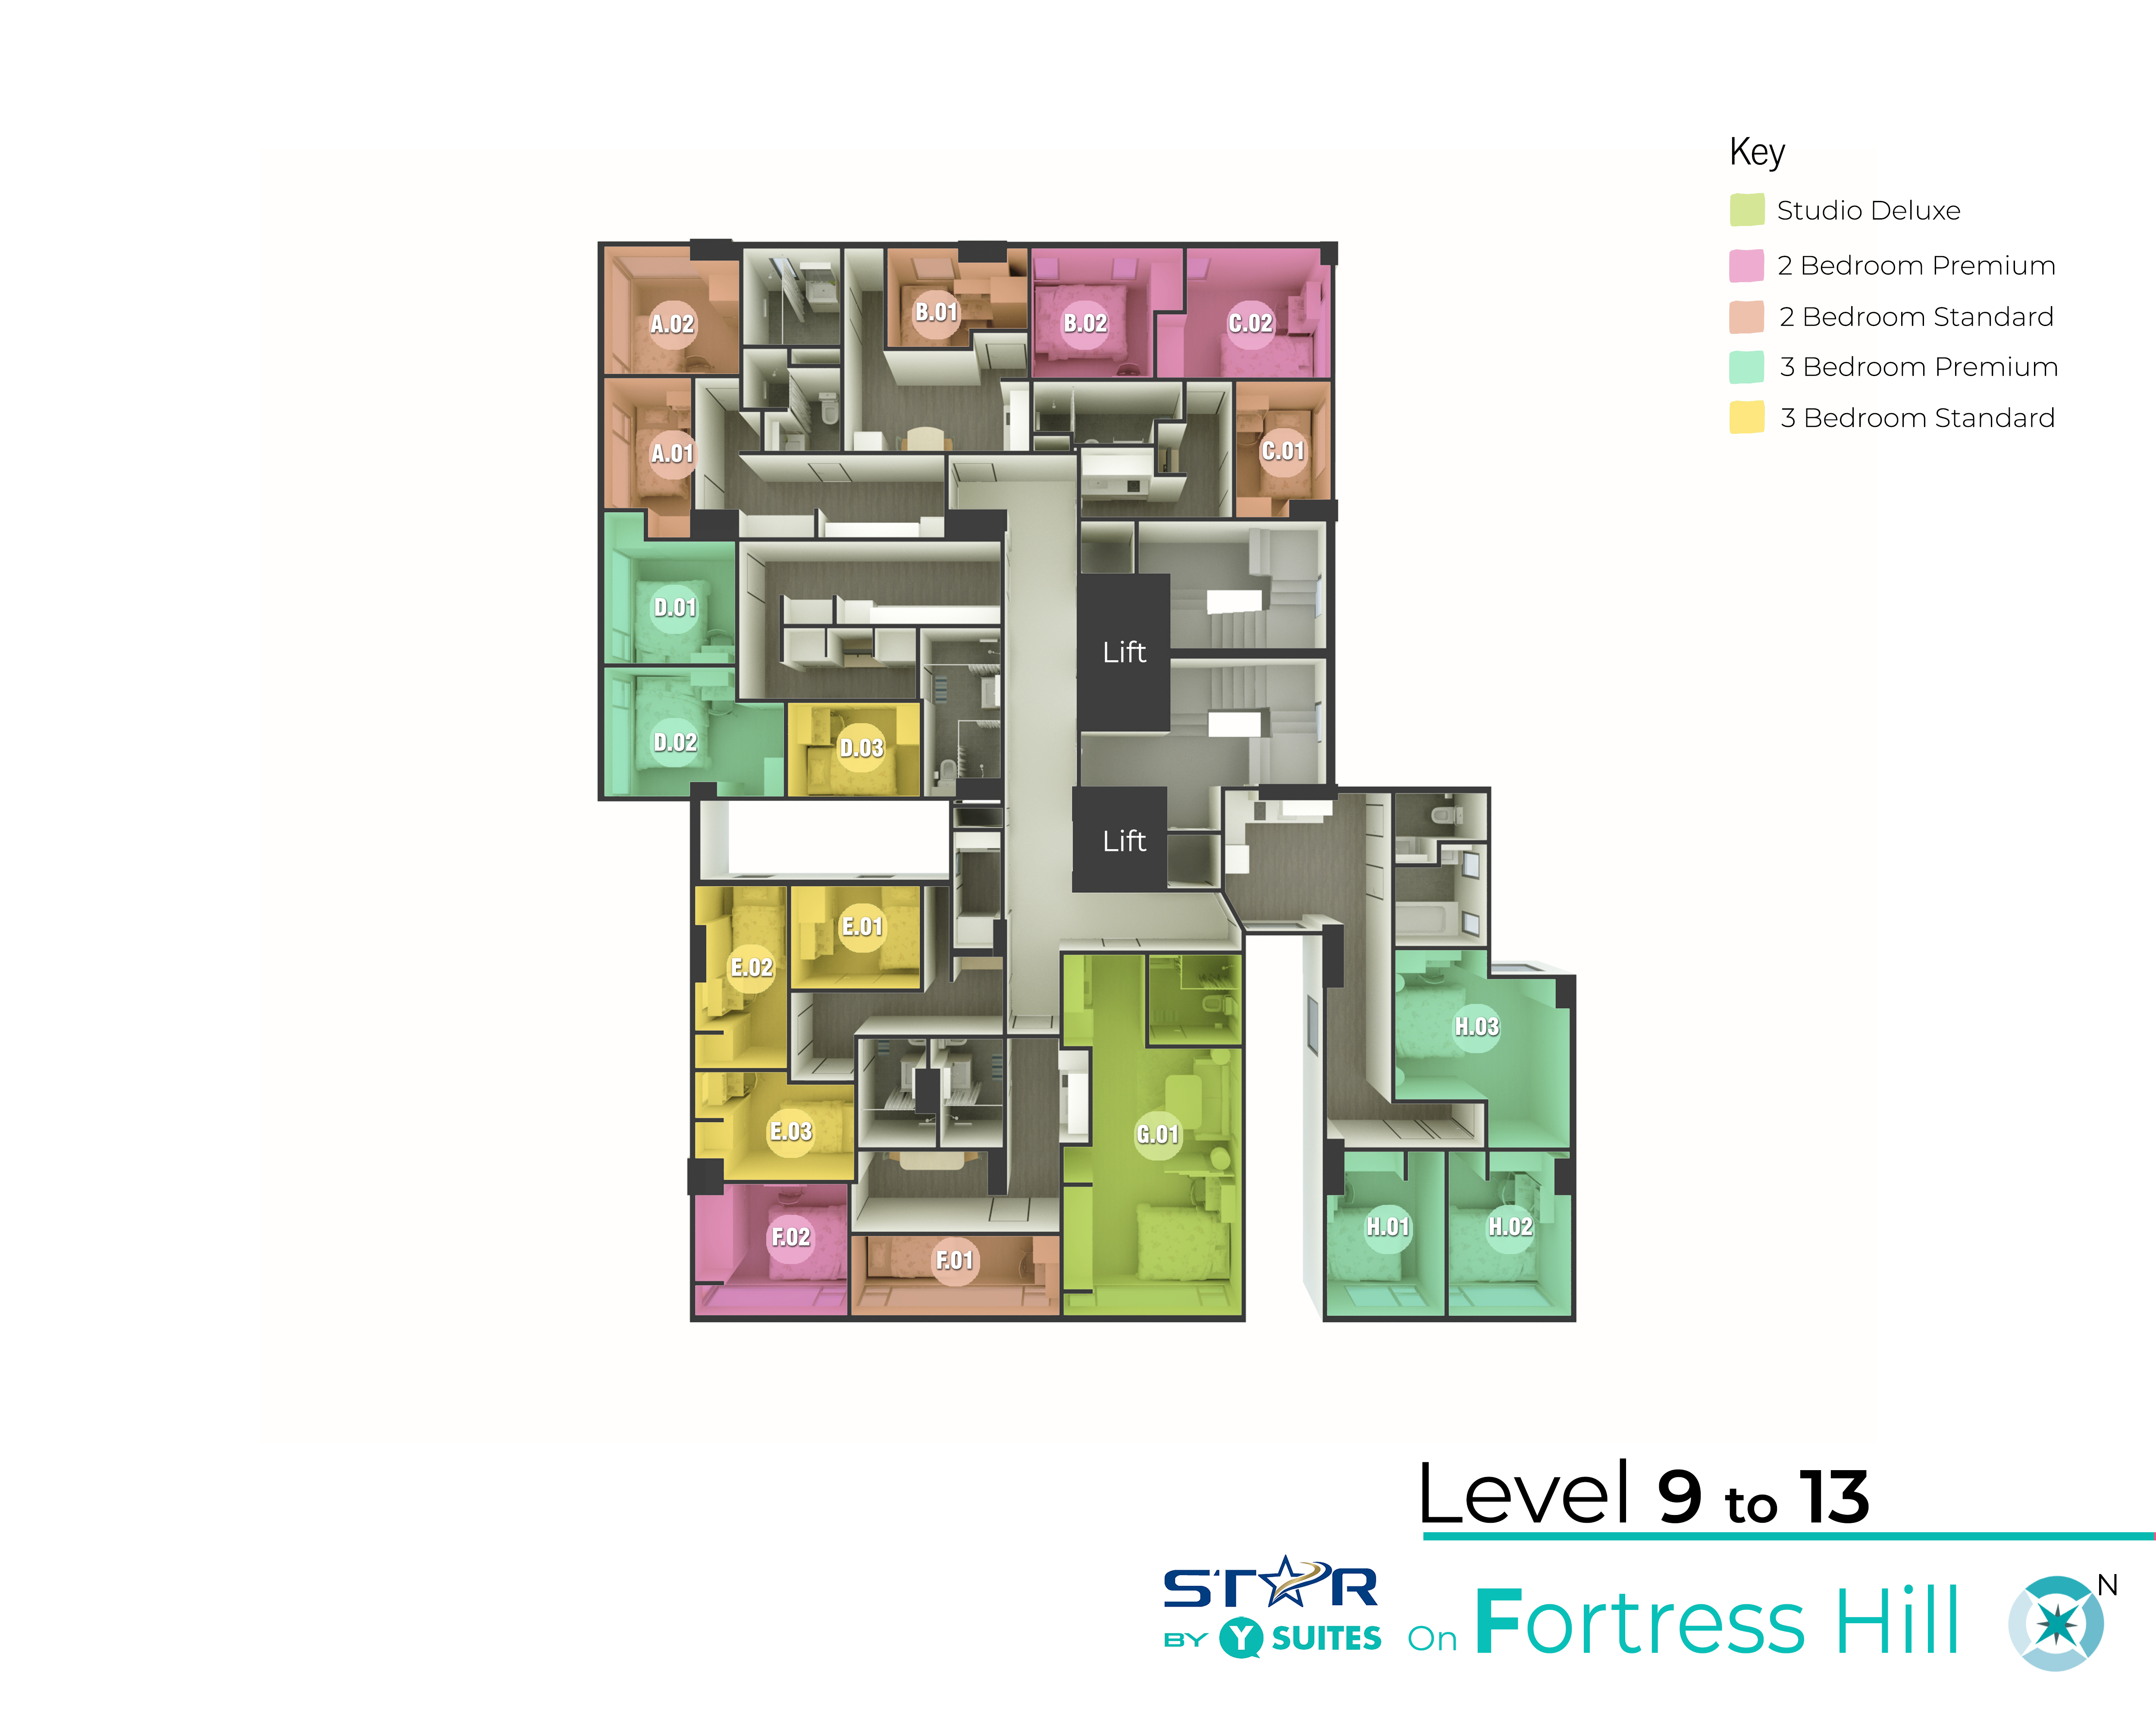
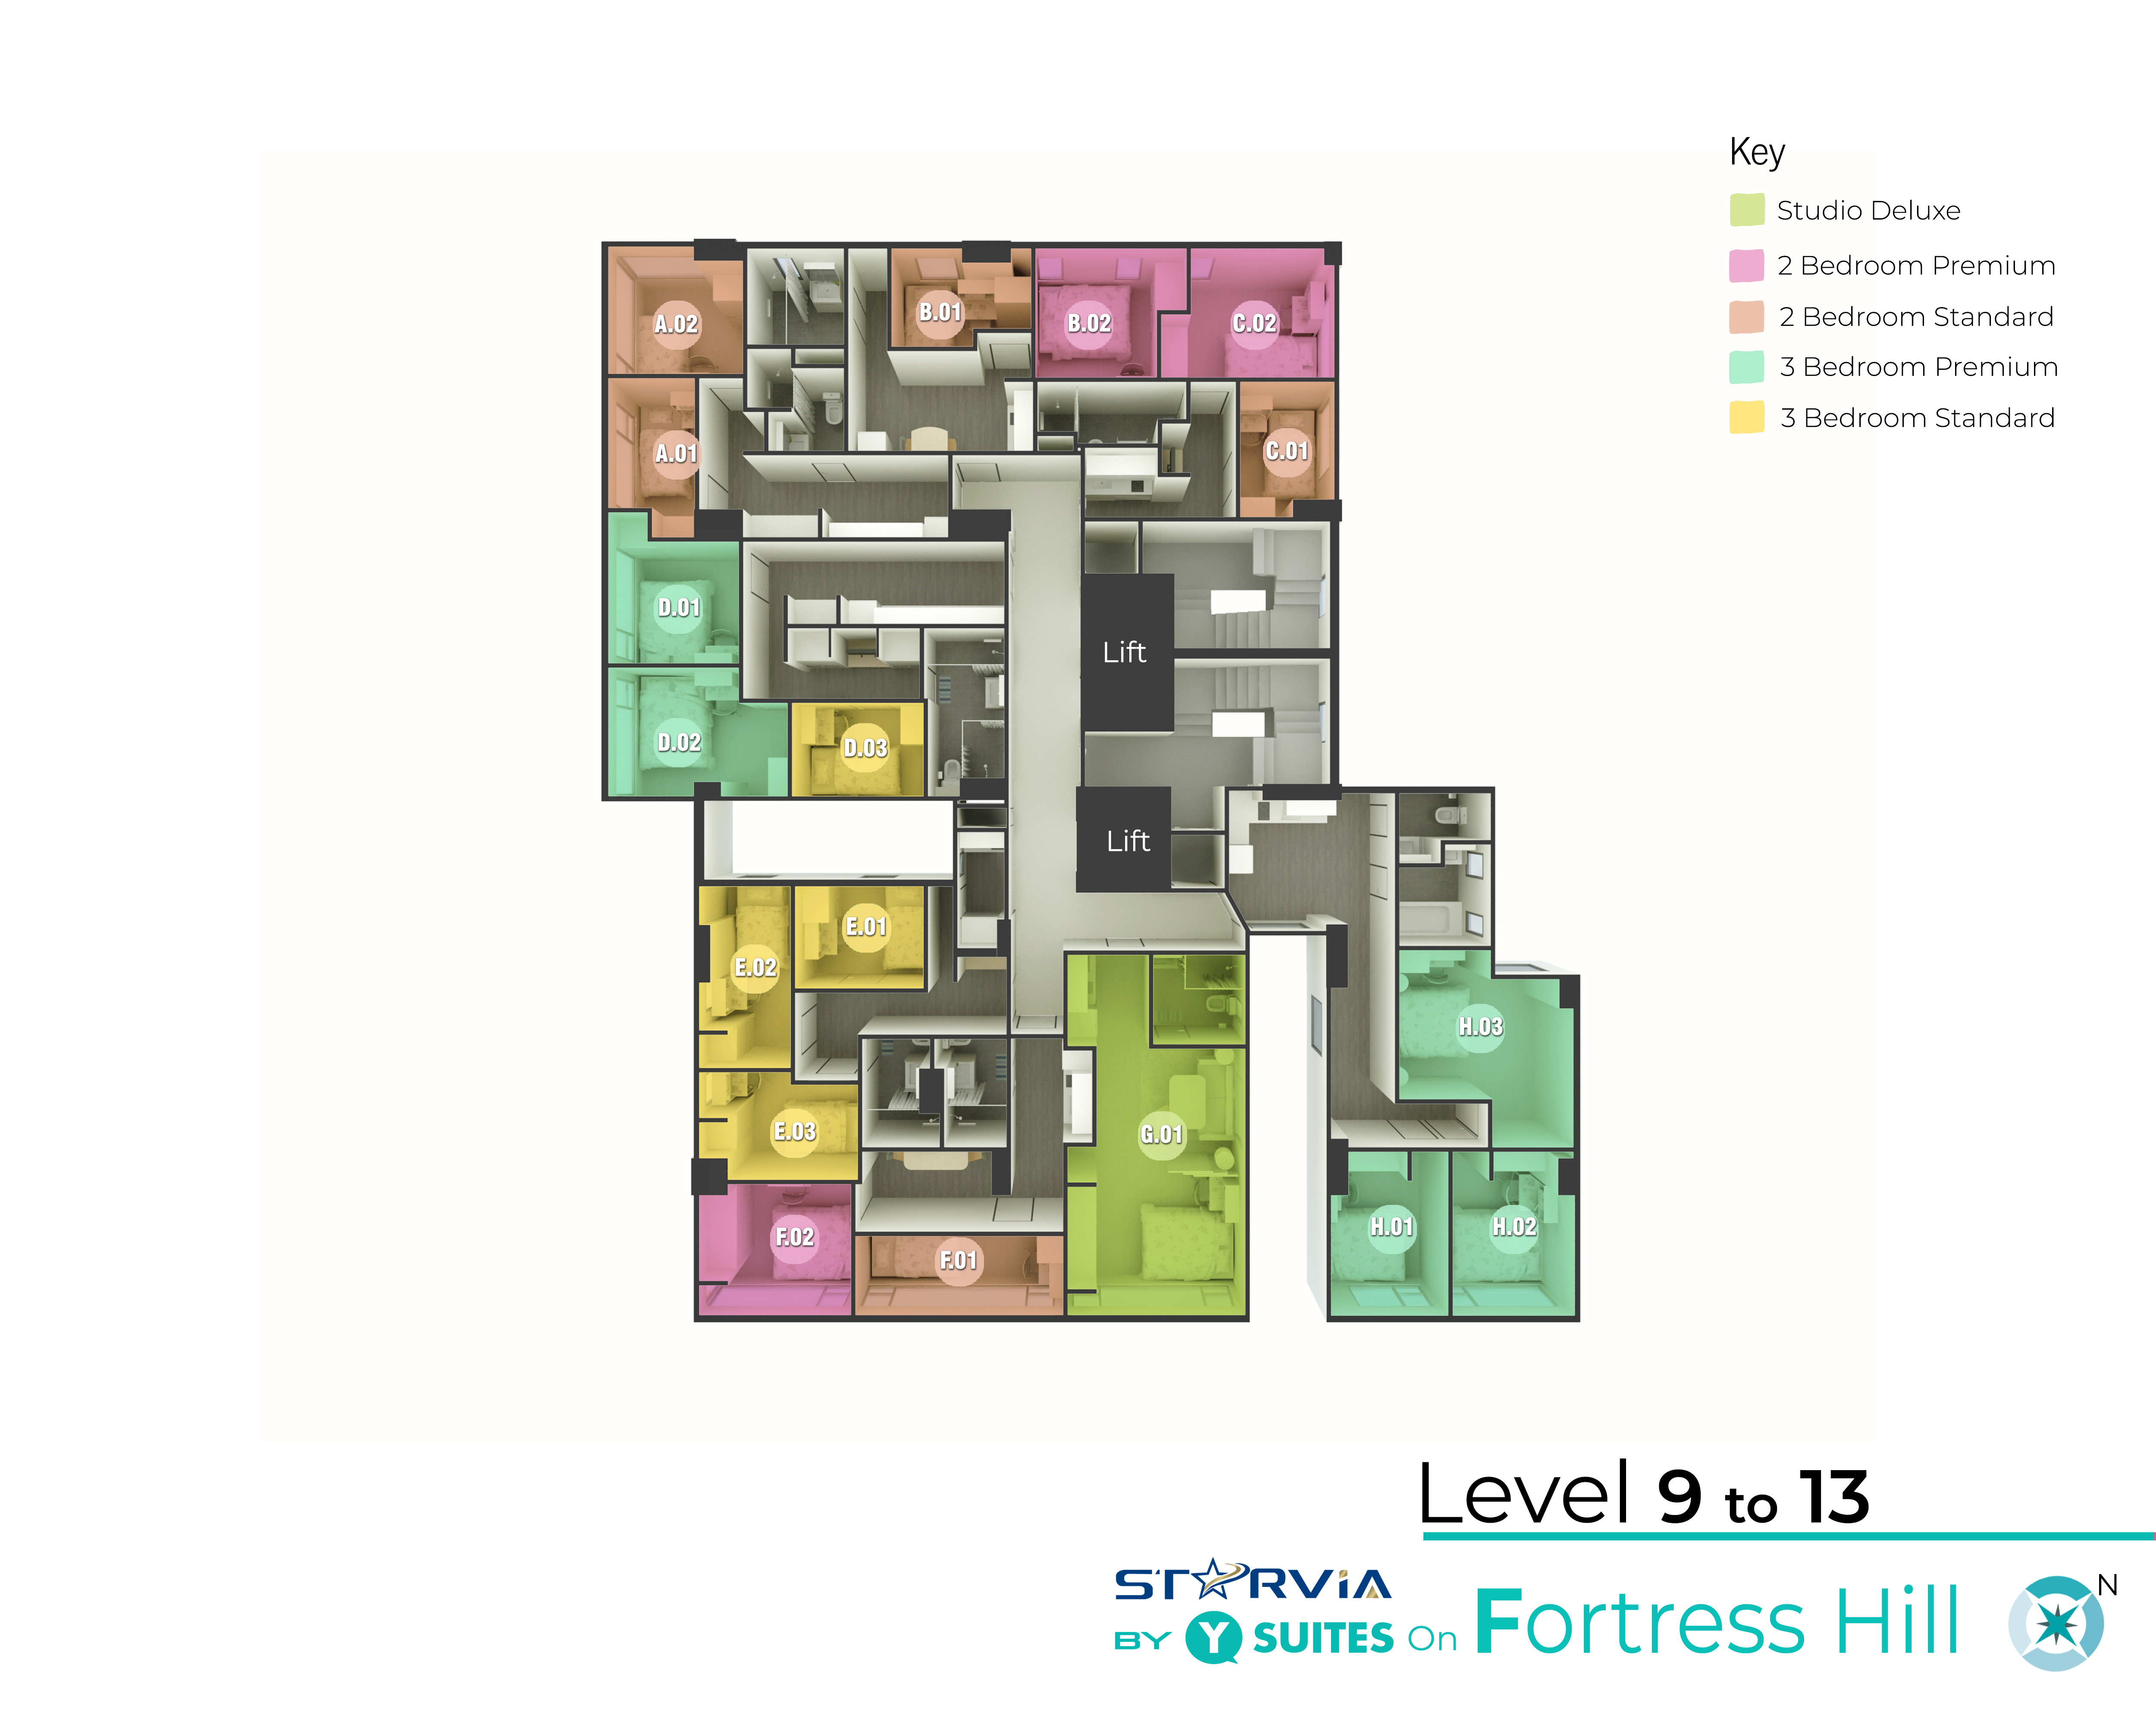
feat: 更新楼层图(L9-13/L15-16/L17-19)，KB楼层映射逻辑优化，L3-8暂缓

Changed region(s): [[0.2808, 0.125, 0.7488, 0.75], [0.4992, 0.9062, 0.6552, 0.9688], [0.4992, 0.4688, 0.5304, 0.5]]

diff --git a/index.html b/index.html
@@ -294,7 +294,7 @@ function formatAvailabilityContext() {
 
 var MG_KB = "【知识库更新时间】2026年5月11日11日\n\n【项目基本信息】全名：Y Suites on Margaret（简称MG）。**位置：悉尼 (Sydney), NSW**——绝对不是墨尔本，绝对不是其他澳洲城市。地址：108 Regent Street, Redfern NSW 2016, Australia（Redfern 是 Sydney 内城区）。规模：18层，409床位。开业日期：2025年2月17日。官网：ysuites.co\n\n【交通与学校】紧邻Redfern火车站。悉尼大学/Notre Dame/悉尼大学商学院：步行可达。UTS/Torrens大学：火车约10分钟。UNSW：巴士约26分钟。卧龙岗大学悉尼CBD：火车约25分钟。悉尼机场：约20分钟车程。\n\n【周边配套】Regent Place购物中心13分钟火车；QVB 13分钟；Darling Harbour 20分钟；悉尼歌剧院30分钟。\n\n【房型】Studio Premium：15.2m²，Queen床153x203cm，独立卫浴，套内厨房，高低楼层均有。**仅限单人入住，不可双人。**Studio Deluxe：27.0m²，Queen床153x203cm，独立卫浴（Deluxe配无障碍卫浴），套内厨房，高低楼层均有。Ensuite Premium：14.1m²，Queen床153x203cm，**独立卧室+独立卫浴**，仅与同公寓住户共享起居室/客厅，仅低楼层。注意：ENP **不需要** 性别配对人工确认（独立卧室独立卫浴）。2 Bedroom Apartment：25.6m²/间，King Single床107x203cm，2人共享卫浴+厨房，含书桌，高低楼层均有，S2起每两周免费清洁公共区域。楼层：Low Floor 1-10层，High Floor 11-18层。\n【双人入住政策】MG所有房型均为单人配置（每个床位/房间仅限1人），不支持双人入住，无例外。\n\n【水电费】包含在周租金内，无需额外支付。\n\n【S2 2026价格（周租，以群内最新发布为准）】Studio Premium HF：FY A$839 / HY A$819 / SEM A$909。Studio Premium LF：FY A$819 / HY A$819 / SEM A$889。Studio Deluxe HF：FY A$939 / HY A$939 / SEM A$1,009。Studio Deluxe LF：FY A$919 / HY A$919 / SEM A$989。2BR HF：FY A$759 / HY A$759 / SEM A$829。2BR LF：FY A$739 / HY A$739 / SEM A$809。Ensuite Premium：FY A$779 / HY A$779 / SEM A$849。\n\n【S2 2026租期】S2固定起租日：7月14日 / 7月21日 / 7月28日（三个日期任选其一，须为固定日）。若客户问非固定日（如7.15、7.17）→ fix到前一个固定起租日（7.14），租金从固定日起算。若客户要求7.14之前入住（如7.13）→ 属于特殊申请，不可自动受理，需人工处理。Full Year退租：2027年7月7或14日。Half Year退租：2027年1月26日或2月2日。Semester退租：2026年12月22日。Short-term：即日可入住，退租不晚于7月1日，最短4周，适用HY划线前价格，目前有库存：Studio Premium、2 Bedroom Apartment。其他特殊租期需求请联系人工对接。\n\n【S2 2026促销（May Stay & Safe，促销期4月30日至5月31日，以群内最新发布为准）】所有房型 Full Year：$1,000 Rent Rebate，代码S226MGEARLYTI。所有房型 Half Year：$500 Rent Rebate（适用Full Year价格），代码S226MGEARLYTFY。所有房型 Semester：$150 Rent Rebate。Studio Premium专属：申请Low Floor可免费升级High Floor房间，先到先得。团订：3人或以上每人额外$200租金抵扣。入住礼包：机场交通补贴（凭悉尼机场→Margaret的车票/Taxi/Train receipt，发至[email redacted]，实报实销，封顶A$50；票面金额低于50按实际金额报销，如票据30即给30 Rebate）+ 全新床品套装（1×Duvet、1×Duvet Cover、1×Flat Sheet、1×Pillow、1×Pillowcase、1×Bath Mat、1×Face Towel、1×Bath Towel，全部全新包装，学生自行铺床即可）。注意：促销没有任何直降周租，全部为Rebate形式。【Rebate抵扣方式】Full Year年租：Rebate分两次自动抵扣至租金账户，分别在租期中段和租期末；Half Year / Semester：Rebate统一在最后一期账单中体现。全部自动处理，无需客户额外操作，只需在对应账单日留意账单金额。\n\n【申请与付款】申请链接：https://www.ysuites.co/agent-login → 输入 Agent Code（与 Starvia HK 共用同一个 code）→ 选择项目名（MG / Starvia）→ 进入申请表格 → 填客户信息+预计毕业时间 → 递交。**递交后中介会收到系统自动发的 Offer 邮件**。如果没有及时收到 → 人工确认是否递交成功。操作遇到困难/报错 → 转人工。\n【订金付款流程（预订时，收Offer后24小时内）】收到Offer邮件后，邮件内含支付链接（Reservation Expiry: 24 hours，须24小时内完成）。步骤：① 点击邮件支付链接进入支付页面 → ② 阅读并勾选确认信息 → ③ 点击【China Payment】按钮（Stripe第三方平台，手续费约3.1%）→ ④ 选择结算货币（推荐选澳币AUD，手续费最低；选人民币会有额外手续费）→ ⑤ 选支付方式：银行卡/微信/支付宝（推荐中国学生选微信/支付宝，扫码即可）。如需银行转账：点Bank Transfer → 银行账号信息自动发送至申请邮箱 → 转账时备注邮件内的Reference Number → 转账截图发至 [email redacted]。银行收款信息：Y Suites Australia Pty Ltd | NAB | BSB 084 150 | Account [phone redacted] | SWIFT: NATAAU3303M。\n【押金（Security Deposit）】押金为4周租金，退房后无违约情况下退还。入住前约一周会收到RBO邮件，邮件内含押金支付链接。如因无澳洲手机号等原因支付遇到困难，最晚可在入住当天在前台工作人员指导下完成付款。\n取消政策：【退改政策——重要，请严格按此口径回答】\n① No Visa No Pay & No Offer No Pay（仅限起租前）：签证未获批或Offer未下发，须在起租日至少7天前提出书面申请，符合条件已付款项全额退还。此政策仅适用于合约尚未开始前；合约一旦开始（即起租日已过），此政策不再适用，如仍有特殊情况可引导联系Y Suites China Team商讨是否 defer（延期入住），但非自动退款。\n② 合约中途退租：MG为固定租期合同，不支持自动中途解约。如需中途退出，有两条路径：A）优先转租——寻找合适的接租人办理转租手续；B）按新州（NSW）相关法律，根据实际已履约时长扣除相应费用后协商解约，但Y Suites会保留该住户的毁约记录。具体方案转人工处理。\n③ 订金超时：订金（Reservation Fee）须在收到Offer后24小时内完成支付；如超时未付，订单可能失效，需重新提交申请。\n④ 销售话术提示：No Visa No Pay 政策是帮客户提早锁房的利器——建议中介主动告知客户\"无需等签证或录取结果，可先锁房，万一签证被拒可全退\"，降低客户顾虑、提高成交率。\n\n【入住资质】原则上需学生身份。非学生请提前联系China Team确认资质。**未成年人（18岁以下）不接受入住，无例外。**入学证明最迟合约开始前提供。申请时需填预计毕业时间。\n\n【性别安排】默认同性别分配，可指定室友，特殊需求备注。\n\n【交通补贴——入住福利】MG为所有新入住住户提供【机场交通补贴】：凭悉尼机场→Margaret的车票（如Taxi receipt / Train ticket），发送至 [email redacted]，实报实销兑换租金Rebate，封顶A$50。**注意：是实报实销，不是直接给50**——票面金额低于50按实际金额报销，例如票据是A$30就给A$30 Rebate；票据超过A$50按A$50封顶报销。中介可作为入住福利主动介绍给客户。\n\n【设施】（以下为全部公共设施，所有设施仅限MG住户专用，不与其他楼宇或公众共享）：健身房（24小时开放）、洗衣房（收费使用，无免费洗衣次数）、学习室、小组讨论室、影音房、自动快递柜（包裹到达时发送SMS短信通知）、自行车存放室。【重要：洗衣房为收费使用，没有任何免费洗衣次数政策。】安保：夜间保安巡逻+24小时CCTV+楼宇门禁系统（具体技术形式知识库未明确，回答统一说【有门禁】即可，不要编造人脸/APP/指纹等细节）。前台：双语（中英），9am-5pm；非工作时间RA电话值班，支持24小时入住。S2新增：住户App（可预约设施/提交报修）、自助Check-in机、清洁机器人、递送机器人。每周住户活动。\n\n【清洁费用】Departure Cleaning（退房清洁）：A$160/次，必须缴纳（金额视房间状况可能调整）。In-house Cleaning（在住期间清洁）：A$120/小时，可选服务，住户自行决定是否需要，如需预约请联系前台。\n\n【房态】MG的实时房态见下方【实时房态】区域，每天下午4点从RMS自动更新（按\"30天连续无占位\"规则过滤后的数据，更稳）。回答房态问题前请先询问客户租期。如果下方没有房态数据（加载失败），请回答客户去群内查看置顶。\n\n【宠物政策】MG（Y Suites on Margaret，悉尼）完全禁止饲养任何宠物，无例外。被问到宠物问题统一回答：「非常抱歉，MG悉尼项目不允许任何宠物入住。」\n\n【访客与留宿政策】MG 禁止未经许可的访客留宿（Non-registered overnight guests are not permitted）。具体细节（白天访客登记、时间限制等）以住宿协议及前台说明为准，有需要的住户可入住后咨询前台。\n\n【前台联系方式】Main Property Line（前台，工作时间 9:00am–5:00pm）：[phone redacted]。Residential Advisor Line（RA值班，非工作时间 After-Hours）：[phone redacted]。RA热线适用于：非工作时间办理入住、忘带/丢失房卡、噪音投诉等临时紧急需求。【房卡丢失处理流程】非工作时间房卡丢失/忘带：拨打RA值班热线 [phone redacted]，RA上门协助开门。补办新卡：由RA或前台在工作时间（9am-5pm）协助办理。注意：MG目前不具备远程重置门禁权限功能。前台邮箱（文件/收据发送）：[email redacted] / [email redacted]。\n\n【佣金】MG悉尼项目佣金为固定行业统一比例，具体数值在群内联系Y Suites China Team同事确认即可。注意：MG与炮台山（FH）两个项目佣金比例独立制定，不可跨项目类推。【Agent Code】每家中介的Agent Code不同，请联系Y Suites China Team获取。";
 
-var STARVIA_KB = "【知识库更新时间】2026年5月11日\n\n【项目基本信息】全名：Starvia by Y Suites on Fortress Hill。地址：151 Kings Road, Fortress Hill, Hong Kong SAR。规模：19层（3-19楼客房），246床位。性质：Y Suites与Starvia JV合资。正式投入使用：2026年8月。\n\n【品牌】Y Suites隶属新加坡Wee Hur集团，澳洲管理6000+床位，长期100%满房率。Starvia是香港本地合作方。\n\n【交通】步行2分钟炮台山地铁站；步行5分钟电气道市政大厅；乘车20分钟/地铁30分钟西九龙高铁站；乘车30分钟香港国际机场。\n\n【学校距离】港大：地铁18分钟直达。演艺学院：地铁12分钟。理工大学：过海巴士20分钟。树仁大学：步行20分钟/公交10分钟。高科院柴湾：地铁20分钟。城大：地铁30-35分钟。浸大/都会大学：地铁35-40分钟。\n\n【周边生活配套】楼下底商：7-11便利店、美心西饼、争鲜寿司。步行约1分钟：麦当劳（最近的麦当劳！）、惠康Superstore大型超市。步行约2分钟：万宁、屈臣氏。步行5分钟：电气道市政大厅（街市熟食）。步行8-10分钟：北角汇。地铁8分钟：太古城City Plaza。\n\n【水电费——单独收取，不含在月租内】基础 HK$500/月/床（全年 HK$6,000），随第二期租金预付。包含额度：电每月250度、水每月10立方米，超出按实际费率住户均摊。\n【Early Bird 促销——重要卖点，必须主动介绍】促销期：2026年4月13日起，前50个递交订单，额满即止。促销代码：26SYSFEARLY1。优惠内容（所有房型适用）：①月租减免：1个月租金减免（账单内每月金额不变，但总应付期数从12个月减为11个月）；②水电减免：6个月水电账单减免，实付HK$3,000/年（省一半）；③首次抵港交通补贴：HK$300 滴滴/Uber 企业账户支付（覆盖机场或高铁站到公寓）；④HK$800 八达通预充值卡（实际内含 HK$750 可用金额）；⑤床品套装；⑥Welcome Pack。\n退款口径（必须严格执行）：水电费及月租预缴后一律不退，租约固定12个月，绝对不可以跟客户说可以退、可以按比例退、可以多退少补。\n\n【接站补贴】HK$300 滴滴/Uber 企业账户支付（Early Bird 入住礼包之一），覆盖机场或高铁站到公寓的接站费用，基本可以全覆盖。客户问交通费用时必须主动提及。除此外不提供其他交通报销或接机服务，不帮客户拉拼车群。具体路线询问引导客户自行查询或群内联系同事。\n\n【看房安排】Showroom现已全面开放，所有房型均可参观。看房方式：① 实地参观；② 远程视频连线看房——两种方式均可，按客户需求安排。均需提前至少24小时在群内报备，提供客户姓名、看房日期时段及特殊需求，同事跟进确认，不要自行向客户承诺时间。重要提示：Showroom为代表性展示房源，实际入住房间可能存在细微差别（如朝向、楼层视野等）；同价格房间按先到先得方式分配，不保证指定具体房间号，如有偏好可在申请备注供参考。\n\n【工作人员对接】Y Suites工作人员不与客户直接拉群对接。客户有问题，中介在群内联系China Team，由工作人员支援，不可将工作人员联系方式直接给客户。\n\n【房型与价格（per bed，2026年）】所有报价已包含 Early Bird 折扣（住12个月付11个月）。\n- Studio Deluxe（28床）：22.7-26.3m²，Queen床150x200cm，独立卫浴，套内厨房，mini洗烘机，推拉门可分一室一厅，双人入住价格不变，楼层相对较高（高于Studio Grand的3-8层），视野较开阔。基础 HK$23,000/月 → 折后 HK$21,083/月。【Selling Fast】\n- Studio Grand（新房型）：约20.5m²，独立套间，Queen床，独立卫浴，套内厨房，mini洗烘机，位于3-8层（偏低楼层），朝向随机。基础 HK$19,500/月 → 折后 HK$17,875/月。\n- 2-Bedroom Premium：7.5-11.5m²，Queen床，2人共享卫浴/厨房，mini洗烘机。基础 HK$15,000/月 → 折后 HK$13,750/月。【整套注意】部分楼层同一公寓内两张床并非同一类型（如一张Premium + 一张Standard混搭），客户若要整套同类型，须人工确认该公寓两床均为Premium。\n- 2-Bedroom Standard：4.8-7.1m²，Single床100x200cm，2人共享卫浴/厨房，mini洗烘机。基础 HK$13,500/月 → 折后 HK$12,375/月。\n- 3-Bedroom Premium：7.3-11.2m²，Queen床，3人共享卫浴/厨房（卫浴比例 3:1 或 3:2），mini洗烘机。基础 HK$14,000/月 → 折后 HK$12,833/月。\n- 3-Bedroom Standard：5.3-6.9m²，Single床，3人共享卫浴/厨房，mini洗烘机。基础 HK$12,500/月 → 折后 HK$11,458/月。【Selling Fast】\n- 4-Bedroom Premium：7.5-7.7m²，Queen床，4人共享卫浴（4:2）/厨房，mini洗烘机。基础 HK$14,000/月 → 折后 HK$12,833/月。\n- 4-Bedroom Standard：7.3-7.5m²，Single床，4人共享卫浴（4:2）/厨房，mini洗烘机。基础 HK$12,500/月 → 折后 HK$11,458/月。\n水电网账单费另计：HK$500/月/床（Early Bird 减半，详见促销段）。\n\n【面积说明——重要卖点】炮台山项目（Fortress Hill）所有房型标注的面积均为【实际使用面积/净面积】，不是市场常见的【建筑面积】。同等面积标注下，我们的实际可用空间比同行项目大——面积不玩虚的，标多大就有多大可用。客户问面积时必须主动告知这点。\n\n【租期】租约固定一年。起租日期：2026年8月10日至20日之间，区间内任意日期灵活选择。退租日期为起租后365天（例如8月10日起租，退租日为次年8月9日）。特殊租期需求联系人工。\n\n【申请流程】申请链接：https://www.ysuites.co/agent-login → 输入 Agent Code → 选择 Starvia by Y Suites Fortress Hill → 进入申请表格。**递交后中介会收到系统自动发的 Offer 邮件**，如果没有及时收到 → 人工确认是否递交成功。操作遇到困难 → 转人工。\nStep1：官网 agent-login 入口选 Starvia by Y Suites Fortress Hill 点 Book Now。Step2：填客户信息+中介信息（Agent Code + 顾问姓名 + 顾问邮箱，**必填**！否则无法记录佣金）。Step3：备注特殊需求（楼层/性别/同住人/团订）。Step4：群内报备住户姓名。Step5：等Offer，收到即锁定价格，暂无需付款。Step6：递交即锁定房源（无需马上付款）；Y Suites 统一发出付款通知后，48小时内付清：2个月押金 + 1个月定金（定金不退，计入首月租金）。Step7：付款后收确认信及合约，按时签署。Step8：剩余11个月租金7月15日前付清。\n\n【付款与取消】无No Visa No Pay政策。中途毁约：已付款项不退。可转租：须经管理方审批，租客自行寻找继任人，并承担手续费HKD 1,500。\n\n【申请系统】官网申请系统现已上线，与MG悉尼使用同一套自动化流程。递交后系统自动发出Offer邮件。Agent Code与MG悉尼共用同一个code。\n\n【入住资质】原则上需学生身份。非学生或未成年请提前联系China Team。入学证明最迟合约开始前提供。\n\n【性别安排——重要】2-Bedroom / 3-Bedroom / 4-Bedroom 默认**系统自动同性别配对**（不需要每次让人工确认）。客户可指定室友。**只有整套学生团订**的情况下，才会根据学生意愿允许混性别安置（这种情况问清楚学生意愿即可，不需要再让人工确认）。\n\n【设施】健身房、学习室、多功能室、公共洗衣房（住户免费使用）、24小时前台、24小时CCTV、楼宇门禁系统（具体是房卡/人脸/APP 等技术形式知识库未明确，统一回答【有门禁】即可，不要编造具体技术细节）。\n\n【宠物政策】炮台山项目（Fortress Hill）小型宠物可在入住后申请，但须同时获得物业管理方及同住室友的许可方可饲养，未经许可不得自行带入。能否获批视物业及室友意见而定，不保证批准。\n\n【房态】最新房态请查看群内置顶房态表或直接问Y Suites同事。\n\n【楼层平面图】被问到户型图、楼层平面图、房间布局时，直接内嵌对应楼层图展示给中介看。先问清楚客户感兴趣的楼层，然后用 ![户型图](URL) 格式回复。各楼层图：\nLevel 3-8（3至8楼）：![Level 3-8户型图](https://ysuites-china.github.io/ysuites-assistant/assets/floorplans/FH_Level3-8.jpg)\nLevel 9-13（9至13楼）：![Level 9-13户型图](https://ysuites-china.github.io/ysuites-assistant/assets/floorplans/FH_Level9-13.jpg)\nLevel 15-16（15至16楼）：![Level 15-16户型图](https://ysuites-china.github.io/ysuites-assistant/assets/floorplans/FH_Level15-16.jpg)\nLevel 17-19（17至19楼）：![Level 17-19户型图](https://ysuites-china.github.io/ysuites-assistant/assets/floorplans/FH_Level17-19.jpg)\n\n【总费用预算表（FH项目，直接查表，格式：押金|定金|尾款|Utility|厘印|清洁→合计/净支出，押金可退，清洁500起可调整）】\n\nStudio Deluxe(月租23,000)：EB：46,000|23,000|230,000|3,000|345.00|500→302,845.00/256,845.00 | 非EB：46,000|23,000|253,000|6,000|345.00|500→328,845.00/282,845.00\n\nStudio Grand(月租19,500)：EB：39,000|19,500|195,000|3,000|292.50|500→257,292.50/218,292.50 | 非EB：39,000|19,500|214,500|6,000|292.50|500→279,792.50/240,792.50\n\n2BR Premium(月租15,000)：EB：30,000|15,000|150,000|3,000|225.00|500→198,725.00/168,725.00 | 非EB：30,000|15,000|165,000|6,000|225.00|500→216,725.00/186,725.00\n\n2BR Standard(月租13,500)：EB：27,000|13,500|135,000|3,000|202.50|500→179,202.50/152,202.50 | 非EB：27,000|13,500|148,500|6,000|202.50|500→195,702.50/168,702.50\n\n3BR Premium(月租14,000)：EB：28,000|14,000|140,000|3,000|210.00|500→185,710.00/157,710.00 | 非EB：28,000|14,000|154,000|6,000|210.00|500→202,710.00/174,710.00\n\n3BR Standard(月租12,500)：EB：25,000|12,500|125,000|3,000|187.50|500→166,187.50/141,187.50 | 非EB：25,000|12,500|137,500|6,000|187.50|500→181,687.50/156,687.50\n\n4BR Premium(月租14,000)：EB：28,000|14,000|140,000|3,000|210.00|500→185,710.00/157,710.00 | 非EB：28,000|14,000|154,000|6,000|210.00|500→202,710.00/174,710.00\n\n4BR Standard(月租12,500)：EB：25,000|12,500|125,000|3,000|187.50|500→166,187.50/141,187.50 | 非EB：25,000|12,500|137,500|6,000|187.50|500→181,687.50/156,687.50\n\n【佣金】炮台山（Fortress Hill）项目佣金为固定行业统一比例，不按合作伙伴等级或单量设梯度。具体比例在群内联系Y Suites China Team同事确认即可，无需提供额外信息。注意：FH与MG悉尼两个项目佣金比例独立制定，不可跨项目类推。【Agent Code】每家中介的Agent Code不同，请联系Y Suites China Team获取。";
+var STARVIA_KB = "【知识库更新时间】2026年5月11日\n\n【项目基本信息】全名：Starvia by Y Suites on Fortress Hill。地址：151 Kings Road, Fortress Hill, Hong Kong SAR。规模：19层（3-19楼客房），246床位。性质：Y Suites与Starvia JV合资。正式投入使用：2026年8月。\n\n【品牌】Y Suites隶属新加坡Wee Hur集团，澳洲管理6000+床位，长期100%满房率。Starvia是香港本地合作方。\n\n【交通】步行2分钟炮台山地铁站；步行5分钟电气道市政大厅；乘车20分钟/地铁30分钟西九龙高铁站；乘车30分钟香港国际机场。\n\n【学校距离】港大：地铁18分钟直达。演艺学院：地铁12分钟。理工大学：过海巴士20分钟。树仁大学：步行20分钟/公交10分钟。高科院柴湾：地铁20分钟。城大：地铁30-35分钟。浸大/都会大学：地铁35-40分钟。\n\n【周边生活配套】楼下底商：7-11便利店、美心西饼、争鲜寿司。步行约1分钟：麦当劳（最近的麦当劳！）、惠康Superstore大型超市。步行约2分钟：万宁、屈臣氏。步行5分钟：电气道市政大厅（街市熟食）。步行8-10分钟：北角汇。地铁8分钟：太古城City Plaza。\n\n【水电费——单独收取，不含在月租内】基础 HK$500/月/床（全年 HK$6,000），随第二期租金预付。包含额度：电每月250度、水每月10立方米，超出按实际费率住户均摊。\n【Early Bird 促销——重要卖点，必须主动介绍】促销期：2026年4月13日起，前50个递交订单，额满即止。促销代码：26SYSFEARLY1。优惠内容（所有房型适用）：①月租减免：1个月租金减免（账单内每月金额不变，但总应付期数从12个月减为11个月）；②水电减免：6个月水电账单减免，实付HK$3,000/年（省一半）；③首次抵港交通补贴：HK$300 滴滴/Uber 企业账户支付（覆盖机场或高铁站到公寓）；④HK$800 八达通预充值卡（实际内含 HK$750 可用金额）；⑤床品套装；⑥Welcome Pack。\n退款口径（必须严格执行）：水电费及月租预缴后一律不退，租约固定12个月，绝对不可以跟客户说可以退、可以按比例退、可以多退少补。\n\n【接站补贴】HK$300 滴滴/Uber 企业账户支付（Early Bird 入住礼包之一），覆盖机场或高铁站到公寓的接站费用，基本可以全覆盖。客户问交通费用时必须主动提及。除此外不提供其他交通报销或接机服务，不帮客户拉拼车群。具体路线询问引导客户自行查询或群内联系同事。\n\n【看房安排】Showroom现已全面开放，所有房型均可参观。看房方式：① 实地参观；② 远程视频连线看房——两种方式均可，按客户需求安排。均需提前至少24小时在群内报备，提供客户姓名、看房日期时段及特殊需求，同事跟进确认，不要自行向客户承诺时间。重要提示：Showroom为代表性展示房源，实际入住房间可能存在细微差别（如朝向、楼层视野等）；同价格房间按先到先得方式分配，不保证指定具体房间号，如有偏好可在申请备注供参考。\n\n【工作人员对接】Y Suites工作人员不与客户直接拉群对接。客户有问题，中介在群内联系China Team，由工作人员支援，不可将工作人员联系方式直接给客户。\n\n【房型与价格（per bed，2026年）】所有报价已包含 Early Bird 折扣（住12个月付11个月）。\n- Studio Deluxe（28床）：22.7-26.3m²，Queen床150x200cm，独立卫浴，套内厨房，mini洗烘机，推拉门可分一室一厅，双人入住价格不变，楼层相对较高（高于Studio Grand的3-8层），视野较开阔。基础 HK$23,000/月 → 折后 HK$21,083/月。【Selling Fast】\n- Studio Grand（新房型）：约20.5m²，独立套间，Queen床，独立卫浴，套内厨房，mini洗烘机，位于3-8层（偏低楼层），朝向随机。基础 HK$19,500/月 → 折后 HK$17,875/月。\n- 2-Bedroom Premium：7.5-11.5m²，Queen床，2人共享卫浴/厨房，mini洗烘机。基础 HK$15,000/月 → 折后 HK$13,750/月。【整套注意】部分楼层同一公寓内两张床并非同一类型（如一张Premium + 一张Standard混搭），客户若要整套同类型，须人工确认该公寓两床均为Premium。\n- 2-Bedroom Standard：4.8-7.1m²，Single床100x200cm，2人共享卫浴/厨房，mini洗烘机。基础 HK$13,500/月 → 折后 HK$12,375/月。\n- 3-Bedroom Premium：7.3-11.2m²，Queen床，3人共享卫浴/厨房（卫浴比例 3:1 或 3:2），mini洗烘机。基础 HK$14,000/月 → 折后 HK$12,833/月。\n- 3-Bedroom Standard：5.3-6.9m²，Single床，3人共享卫浴/厨房，mini洗烘机。基础 HK$12,500/月 → 折后 HK$11,458/月。【Selling Fast】\n- 4-Bedroom Premium：7.5-7.7m²，Queen床，4人共享卫浴（4:2）/厨房，mini洗烘机。基础 HK$14,000/月 → 折后 HK$12,833/月。\n- 4-Bedroom Standard：7.3-7.5m²，Single床，4人共享卫浴（4:2）/厨房，mini洗烘机。基础 HK$12,500/月 → 折后 HK$11,458/月。\n水电网账单费另计：HK$500/月/床（Early Bird 减半，详见促销段）。\n\n【面积说明——重要卖点】炮台山项目（Fortress Hill）所有房型标注的面积均为【实际使用面积/净面积】，不是市场常见的【建筑面积】。同等面积标注下，我们的实际可用空间比同行项目大——面积不玩虚的，标多大就有多大可用。客户问面积时必须主动告知这点。\n\n【租期】租约固定一年。起租日期：2026年8月10日至20日之间，区间内任意日期灵活选择。退租日期为起租后365天（例如8月10日起租，退租日为次年8月9日）。特殊租期需求联系人工。\n\n【申请流程】申请链接：https://www.ysuites.co/agent-login → 输入 Agent Code → 选择 Starvia by Y Suites Fortress Hill → 进入申请表格。**递交后中介会收到系统自动发的 Offer 邮件**，如果没有及时收到 → 人工确认是否递交成功。操作遇到困难 → 转人工。\nStep1：官网 agent-login 入口选 Starvia by Y Suites Fortress Hill 点 Book Now。Step2：填客户信息+中介信息（Agent Code + 顾问姓名 + 顾问邮箱，**必填**！否则无法记录佣金）。Step3：备注特殊需求（楼层/性别/同住人/团订）。Step4：群内报备住户姓名。Step5：等Offer，收到即锁定价格，暂无需付款。Step6：递交即锁定房源（无需马上付款）；Y Suites 统一发出付款通知后，48小时内付清：2个月押金 + 1个月定金（定金不退，计入首月租金）。Step7：付款后收确认信及合约，按时签署。Step8：剩余11个月租金7月15日前付清。\n\n【付款与取消】无No Visa No Pay政策。中途毁约：已付款项不退。可转租：须经管理方审批，租客自行寻找继任人，并承担手续费HKD 1,500。\n\n【申请系统】官网申请系统现已上线，与MG悉尼使用同一套自动化流程。递交后系统自动发出Offer邮件。Agent Code与MG悉尼共用同一个code。\n\n【入住资质】原则上需学生身份。非学生或未成年请提前联系China Team。入学证明最迟合约开始前提供。\n\n【性别安排——重要】2-Bedroom / 3-Bedroom / 4-Bedroom 默认**系统自动同性别配对**（不需要每次让人工确认）。客户可指定室友。**只有整套学生团订**的情况下，才会根据学生意愿允许混性别安置（这种情况问清楚学生意愿即可，不需要再让人工确认）。\n\n【设施】健身房、学习室、多功能室、公共洗衣房（住户免费使用）、24小时前台、24小时CCTV、楼宇门禁系统（具体是房卡/人脸/APP 等技术形式知识库未明确，统一回答【有门禁】即可，不要编造具体技术细节）。\n\n【宠物政策】炮台山项目（Fortress Hill）小型宠物可在入住后申请，但须同时获得物业管理方及同住室友的许可方可饲养，未经许可不得自行带入。能否获批视物业及室友意见而定，不保证批准。\n\n【房态】最新房态请查看群内置顶房态表或直接问Y Suites同事。\n\n【楼层平面图】被问到户型图、楼层平面图、房间布局时，直接内嵌对应楼层图展示给中介看。先确认客户感兴趣的楼层，按以下映射返回图片（用 ![户型图](URL) 格式）：3-8楼→图纸修订中，暂时无法提供；9-13楼→Level 9-13图；14楼不存在（楼层跳过）；15-16楼→Level 15-16图；17-19楼→Level 17-19图。例：问10楼返回Level 9-13，问15楼返回Level 15-16，问18楼返回Level 17-19。\nLevel 9-13（9至13楼）：![Level 9-13户型图](https://ysuites-china.github.io/ysuites-assistant/assets/floorplans/FH_Level9-13.jpg)\nLevel 15-16（15至16楼）：![Level 15-16户型图](https://ysuites-china.github.io/ysuites-assistant/assets/floorplans/FH_Level15-16.jpg)\nLevel 17-19（17至19楼）：![Level 17-19户型图](https://ysuites-china.github.io/ysuites-assistant/assets/floorplans/FH_Level17-19.jpg)\n\n【总费用预算表（FH项目，直接查表，格式：押金|定金|尾款|Utility|厘印|清洁→合计/净支出，押金可退，清洁500起可调整）】\n\nStudio Deluxe(月租23,000)：EB：46,000|23,000|230,000|3,000|345.00|500→302,845.00/256,845.00 | 非EB：46,000|23,000|253,000|6,000|345.00|500→328,845.00/282,845.00\n\nStudio Grand(月租19,500)：EB：39,000|19,500|195,000|3,000|292.50|500→257,292.50/218,292.50 | 非EB：39,000|19,500|214,500|6,000|292.50|500→279,792.50/240,792.50\n\n2BR Premium(月租15,000)：EB：30,000|15,000|150,000|3,000|225.00|500→198,725.00/168,725.00 | 非EB：30,000|15,000|165,000|6,000|225.00|500→216,725.00/186,725.00\n\n2BR Standard(月租13,500)：EB：27,000|13,500|135,000|3,000|202.50|500→179,202.50/152,202.50 | 非EB：27,000|13,500|148,500|6,000|202.50|500→195,702.50/168,702.50\n\n3BR Premium(月租14,000)：EB：28,000|14,000|140,000|3,000|210.00|500→185,710.00/157,710.00 | 非EB：28,000|14,000|154,000|6,000|210.00|500→202,710.00/174,710.00\n\n3BR Standard(月租12,500)：EB：25,000|12,500|125,000|3,000|187.50|500→166,187.50/141,187.50 | 非EB：25,000|12,500|137,500|6,000|187.50|500→181,687.50/156,687.50\n\n4BR Premium(月租14,000)：EB：28,000|14,000|140,000|3,000|210.00|500→185,710.00/157,710.00 | 非EB：28,000|14,000|154,000|6,000|210.00|500→202,710.00/174,710.00\n\n4BR Standard(月租12,500)：EB：25,000|12,500|125,000|3,000|187.50|500→166,187.50/141,187.50 | 非EB：25,000|12,500|137,500|6,000|187.50|500→181,687.50/156,687.50\n\n【佣金】炮台山（Fortress Hill）项目佣金为固定行业统一比例，不按合作伙伴等级或单量设梯度。具体比例在群内联系Y Suites China Team同事确认即可，无需提供额外信息。注意：FH与MG悉尼两个项目佣金比例独立制定，不可跨项目类推。【Agent Code】每家中介的Agent Code不同，请联系Y Suites China Team获取。";
 
 var FLOWS = {
   mg: [